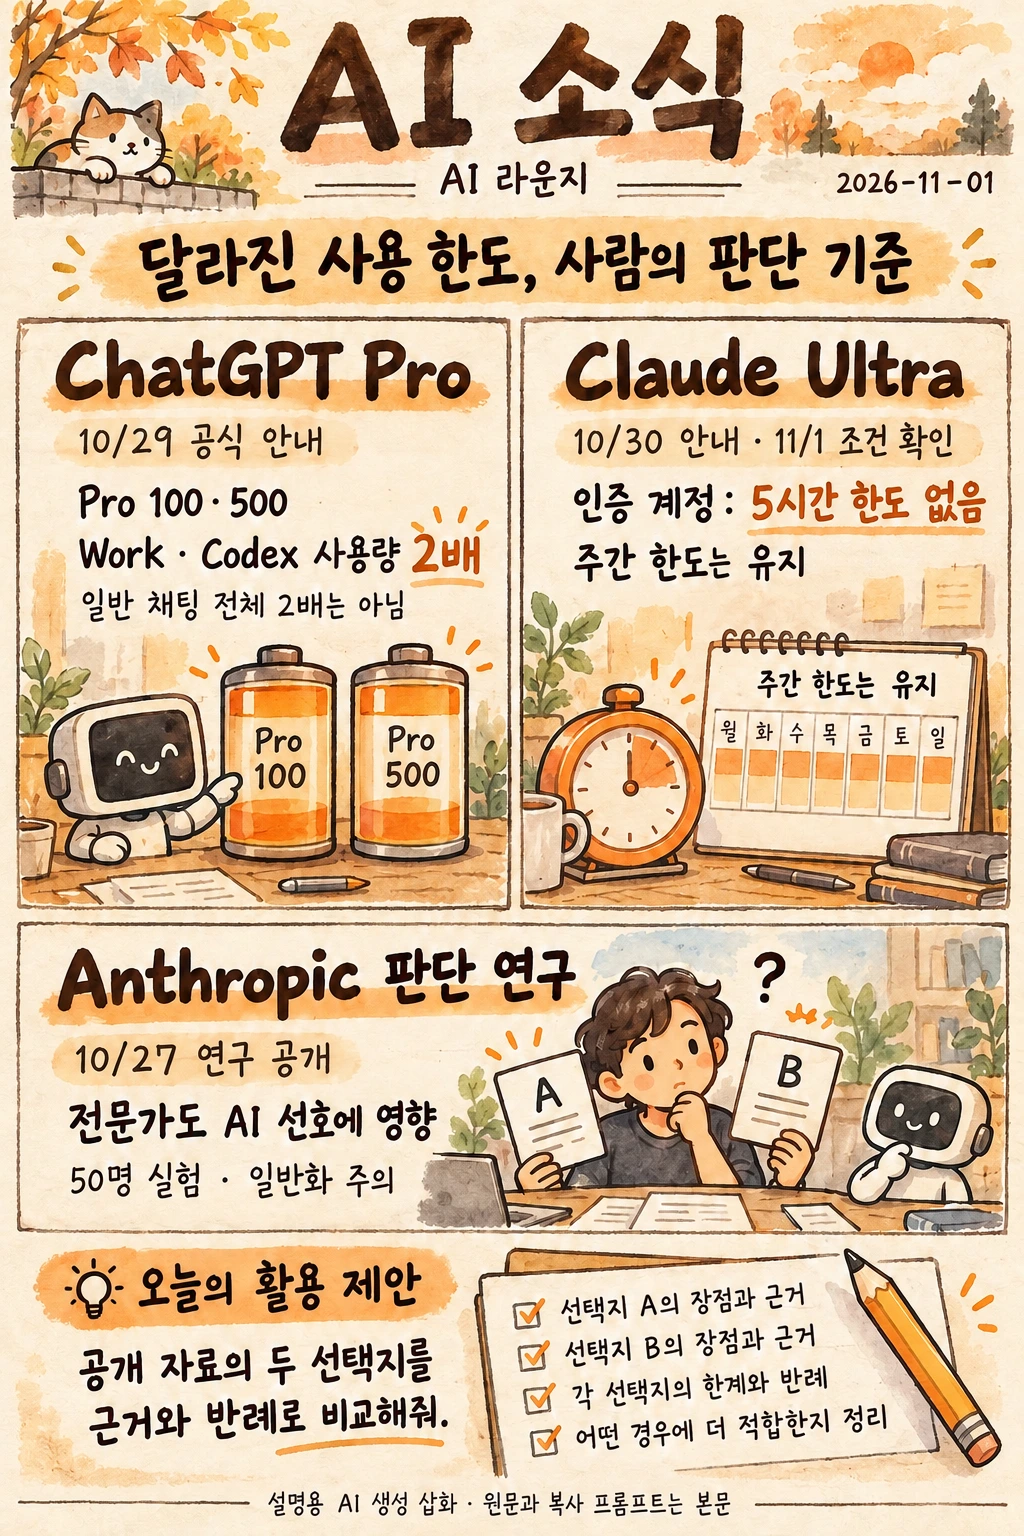
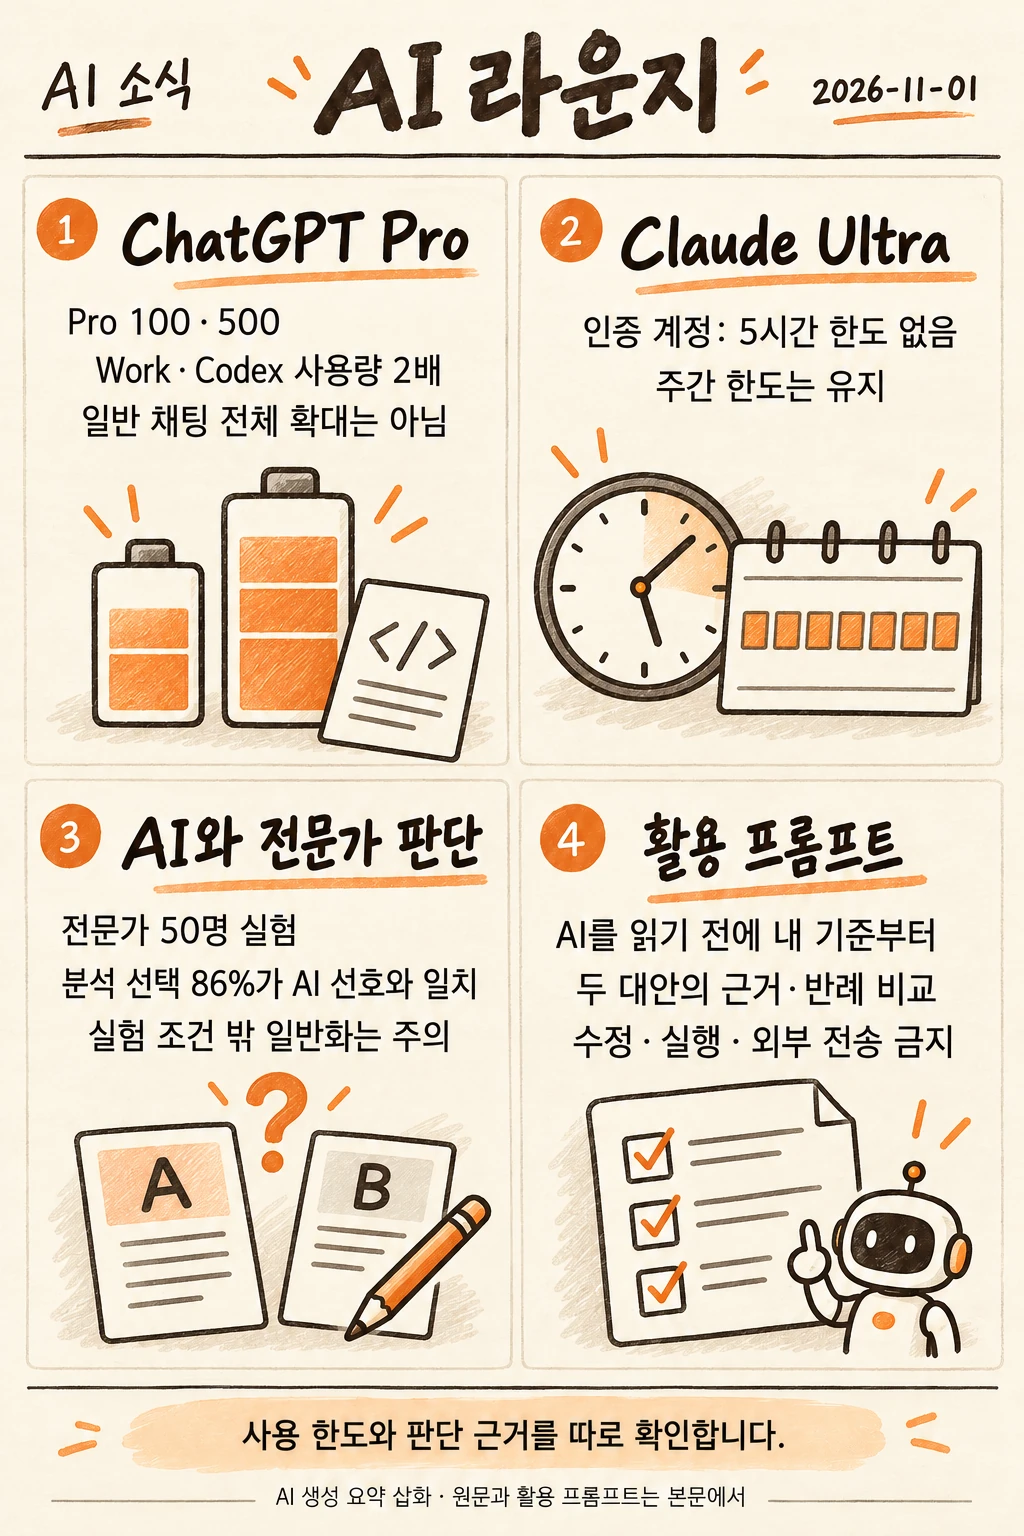
fix: align November 1 daily illustration with approved style (#19)
* fix: align November 1 daily illustration with approved style

* fix: record independent review for November 1 illustration

diff --git a/README.md b/README.md
@@ -149,6 +149,7 @@ Node.js 20 이상에서 JavaScript 문법과 콘텐츠의 필수 필드·중복 
 - **모든 날짜의 그림체 기준 원본:** 승인된 오렌지 계열 기준은 `assets/daily/2026-10-30.webp`의 [고정 원본](https://github.com/hs321-lee/ai-lounge/blob/2a48e5221580dfc634660b6d88b8a5afe8b75688/assets/daily/2026-10-30.webp)입니다. 크림 종이, 브라운 펜선, 주황 강조뿐 아니라 선의 굵기와 불균일함, 연필·수채 질감, 붓터치, 삽화의 단순한 형태와 여백을 함께 참조합니다. 신문형 구획 수는 확정 소식 수에 맞춰 조정할 수 있지만 그림체를 새로 해석하지 않습니다.
 - **기존 날짜의 편집 전후 대조:** 해당 날짜의 교정 전 이미지를 먼저 확인하고 경로와 commit SHA를 작업 기록에 남깁니다. 이 대조는 요청하지 않은 요소의 변경을 찾기 위한 자료입니다. 그림체 승인 기준은 모든 날짜에서 위 10월 30일 고정 원본 하나이며, 교정 대상의 그림을 새 승인 기준으로 사용하지 않습니다. 2026-10-27·29·31 및 11-01의 범용 문구 교정 전 이미지는 [commit `2a48e522`](https://github.com/hs321-lee/ai-lounge/tree/2a48e5221580dfc634660b6d88b8a5afe8b75688/assets/daily)에서 대조합니다. 사용자가 그림체 교정을 요청한 범위에서는 10월 30일 고정 원본에 맞춰 수정합니다.
 - **승인 기준의 변경 금지:** `fabe066`의 범용 문구 교정본 4장은 새 그림체 승인본으로 취급하지 않습니다. 사용자가 명시적으로 선택한 스타일만 이후 기준으로 승격하고 그 근거를 남깁니다.
+- **당일과 현재 월도 같은 기준:** 당일 글과 현재 월을 이유로 그림체 검토를 완화하지 않습니다. 작업 범위 밖이라는 이유로 기준과 다른 공개 그림을 시각 검토 통과로 기록하지 않습니다. 핵심 소식 3개와 활용 프롬프트가 있는 글은 승인 원본의 2×2 구획을 유지합니다. 소식 수가 다른 경우에만 위 원칙에 따라 구획 수를 조정합니다. 고양이·풍경·식물 등 내용과 무관한 장식을 추가하지 않습니다.
 - **문구 수정 범위:** 필요한 문구와 그 문구 때문에 반드시 바뀌어야 하는 요소만 편집합니다. 기존 색상, 선 굵기, 질감, 붓터치, 레이아웃, 여백, 삽화 형태·표정은 유지합니다. 전체 재생성을 기본 방법으로 사용하지 않으며, 생성 도구에 원본 이미지를 실제 참조로 전달합니다. 글자와 삽화를 함께 생성하는 원칙은 유지하고 실제 글꼴로 사후 조판하지 않습니다.
 
 게시 전 작성자와 별도 검토자는 같은 크기로 연 원본과 수정본을 직접 비교해 아래 항목을 각각 확인합니다.

diff --git a/AGENTS.md b/AGENTS.md
@@ -5,6 +5,7 @@
 - 모든 날짜의 그림체 기준은 README에 고정한 commit `2a48e5221580dfc634660b6d88b8a5afe8b75688`의 `assets/daily/2026-10-30.webp` 하나다. 기존 날짜의 교정 전 이미지는 요청하지 않은 요소가 바뀌었는지 대조하는 자료이며 새 그림체 승인 기준이 아니다.
 - 이미지를 생성·편집할 때 기준 원본을 실제 참조로 전달한다. 레고 쇼츠나 최신 교정본을 데일리 그림체 승인본으로 취급하지 않는다.
 - 게시 전 작성자와 별도 검토자가 원본·결과물·확정 본문을 직접 대조한다. README의 색상·선·질감·붓터치·여백·삽화 형태·한글·날짜·내용 기준을 적용한다.
+- 당일 글과 현재 월도 같은 그림체 기준을 적용한다. 작업 범위 밖이라는 이유로 기준과 다른 공개 그림을 시각 검토 통과로 기록하지 않는다. 핵심 소식 3개와 활용 프롬프트는 승인 원본의 2×2 구획을 유지하고, 고양이·풍경·식물 등 내용과 무관한 장식을 추가하지 않는다.
 - 실제 검토 결과를 `docs/daily-image-reviews.json`에 기록한다. 담당자 이름만 바꾸어 독립 검토를 꾸미거나 자동 검사 결과를 시각 검토로 기록하지 않는다.
 - 이미지 또는 확정 본문을 변경하면 해시와 검토 기록을 갱신한다. `node scripts/daily-image-digests.mjs`를 재사용한다.
 - 생성·검토가 실패한 새 글은 `published: false`로 유지한다. 기존 공개 글은 마지막으로 검토한 본문·이미지 쌍을 유지한다. 이미지 누락 상태의 신규 게시를 허용하지 않는다.
